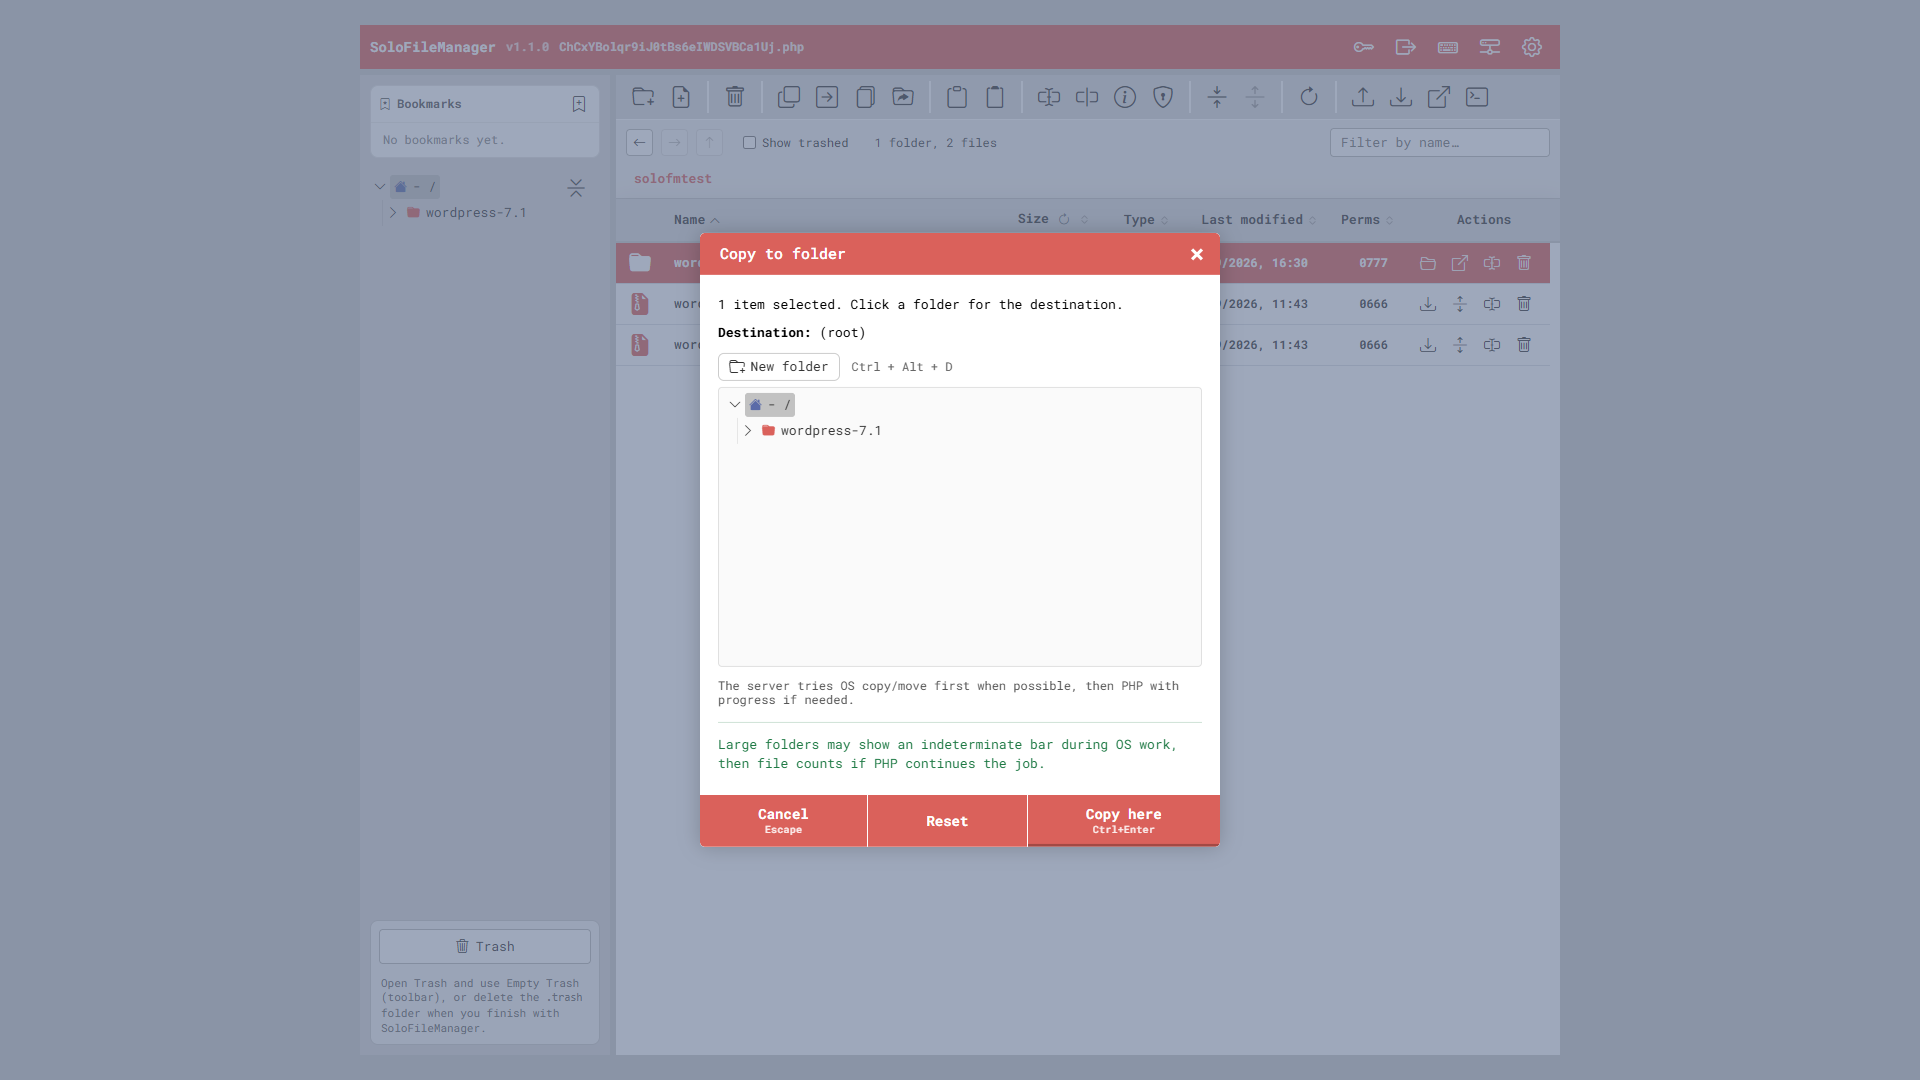
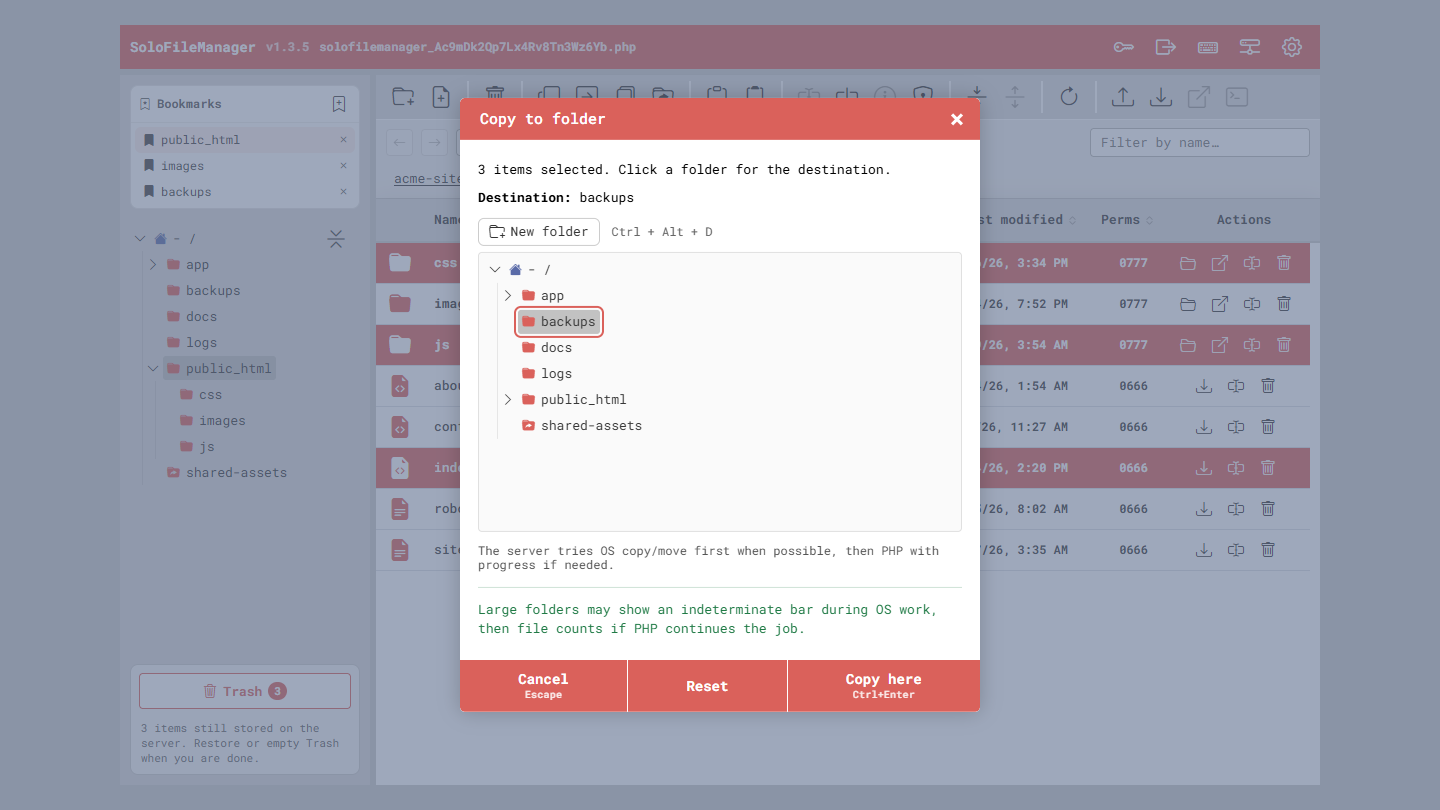
Update screenshots for 1.3.5
- Retake all screenshots at 1440x810 on a demo site (v1.3.5 UI)
- New: Trash list, Configuration Server tab (file ops, idle lock,
  IP allowlist), Server info, session lock overlay; upload shows a
  large file sent in parts
- README: screenshot table with 13 images and descriptive alt text

diff --git a/README.md b/README.md
@@ -25,16 +25,16 @@ Current version: **1.3.5** — see [CHANGELOG.md](CHANGELOG.md)
 
 <table>
     <tr>
-        <td width="100%" colspan="3">
-            <img src="./screenshots/screenshot-1.png" alt="SoloFileManager Dashboard" width="100%">
+        <td width="100%" colspan="2">
+            <img src="./screenshots/screenshot-1.png" alt="SoloFileManager: folder tree, bookmarks, file list with folder sizes and a folder link" width="100%">
         </td>
     </tr>
     <tr>
         <td width="50%">
-            <img src="./screenshots/screenshot-2.png" alt="Keyboard shortcuts" width="100%">
+            <img src="./screenshots/screenshot-3.png" alt="Upload: a large file sent in parts, small files done" width="100%">
         </td>
         <td width="50%">
-            <img src="./screenshots/screenshot-3.png" alt="Upload files" width="100%">
+            <img src="./screenshots/screenshot-5.png" alt="Trash: deleted items with original location, Restore and Delete forever" width="100%">
         </td>
     </tr>
     <tr>
@@ -42,7 +42,23 @@ Current version: **1.3.5** — see [CHANGELOG.md](CHANGELOG.md)
             <img src="./screenshots/screenshot-4.png" alt="Copy to folder" width="100%">
         </td>
         <td width="50%">
-            <img src="./screenshots/screenshot-5.png" alt="Delete" width="100%">
+            <img src="./screenshots/screenshot-7.png" alt="Bulk rename with live preview" width="100%">
+        </td>
+    </tr>
+    <tr>
+        <td width="50%">
+            <img src="./screenshots/screenshot-10.png" alt="Extract / Unzip" width="100%">
+        </td>
+        <td width="50%">
+            <img src="./screenshots/screenshot-11.png" alt="Change permissions for folders and files" width="100%">
+        </td>
+    </tr>
+    <tr>
+        <td width="50%">
+            <img src="./screenshots/screenshot-8.png" alt="Configuration: Display tab" width="100%">
+        </td>
+        <td width="50%">
+            <img src="./screenshots/screenshot-9.png" alt="Configuration: Server tab with file operations, idle lock and IP allowlist" width="100%">
         </td>
     </tr>
     <tr>
@@ -50,20 +66,15 @@ Current version: **1.3.5** — see [CHANGELOG.md](CHANGELOG.md)
             <img src="./screenshots/screenshot-6.png" alt="Terminal" width="100%">
         </td>
         <td width="50%">
-            <img src="./screenshots/screenshot-7.png" alt="Bulk rename" width="100%">
+            <img src="./screenshots/screenshot-12.png" alt="Server info" width="100%">
         </td>
     </tr>
     <tr>
         <td width="50%">
-            <img src="./screenshots/screenshot-8.png" alt="Configuration" width="100%">
+            <img src="./screenshots/screenshot-2.png" alt="Keyboard shortcuts" width="100%">
         </td>
         <td width="50%">
-            <img src="./screenshots/screenshot-9.png" alt="Extract / Unzip" width="100%">
-        </td>
-    </tr>
-    <tr>
-        <td width="50%">
-            <img src="./screenshots/screenshot-10.png" alt="Permissions management" width="100%">
+            <img src="./screenshots/screenshot-13.png" alt="Session locked after idle time" width="100%">
         </td>
     </tr>
 </table>
